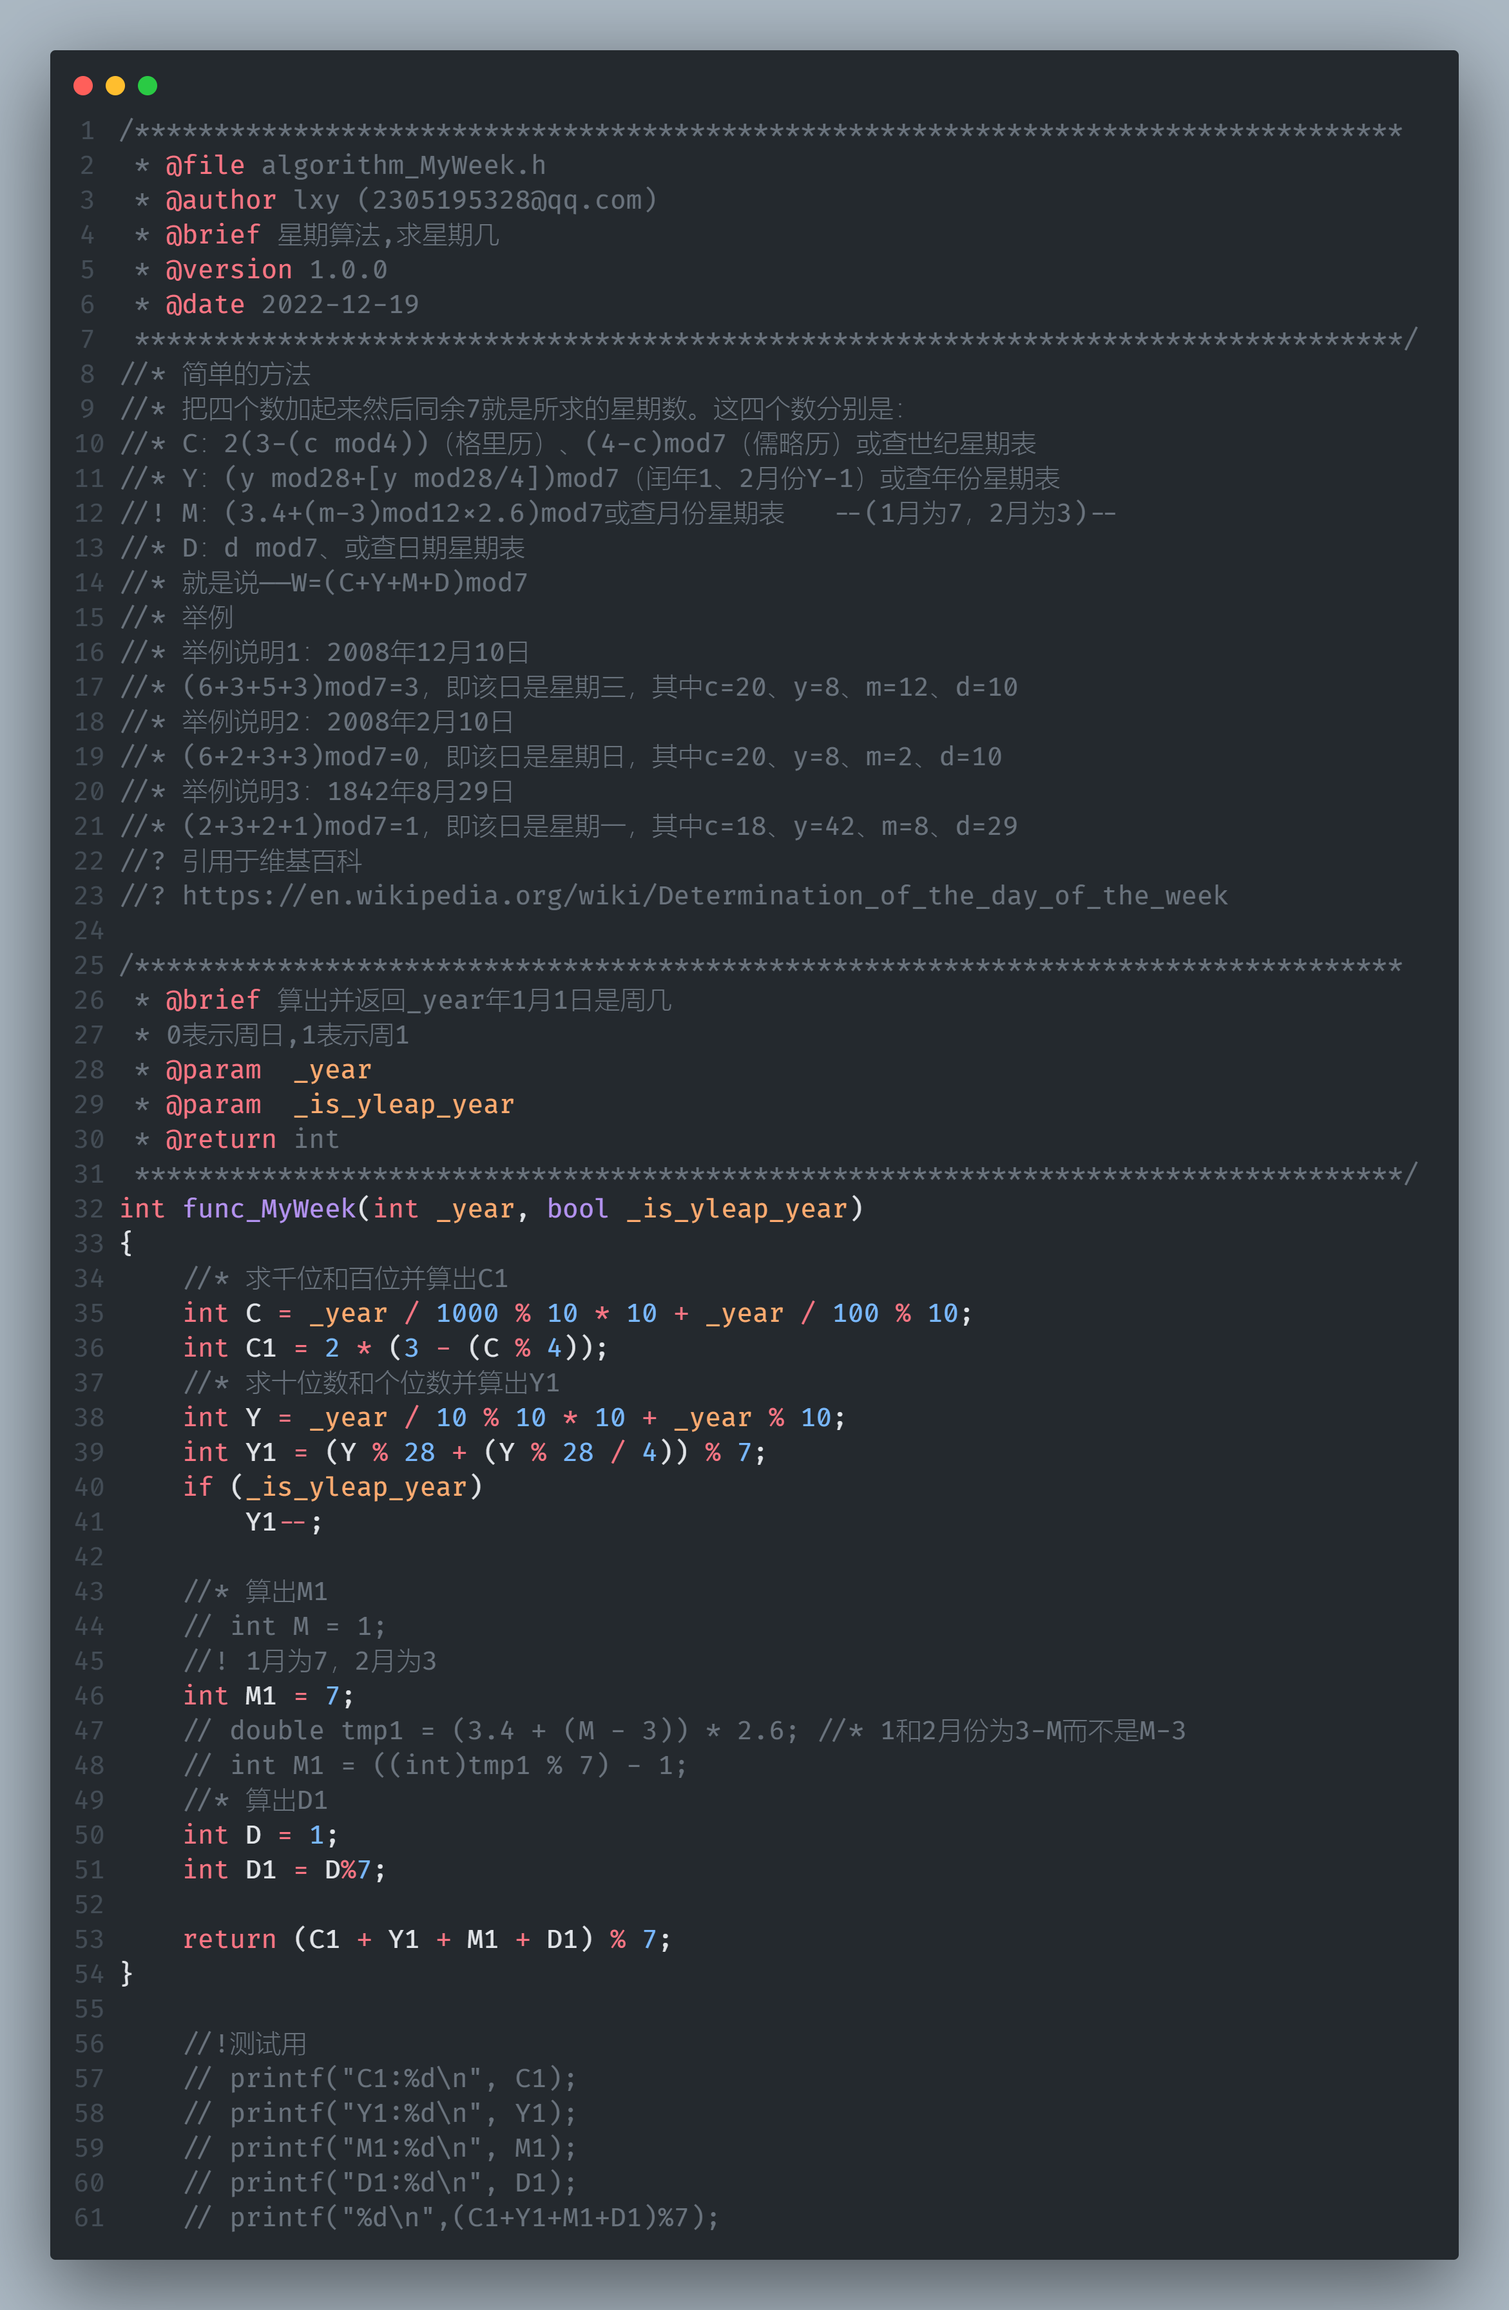
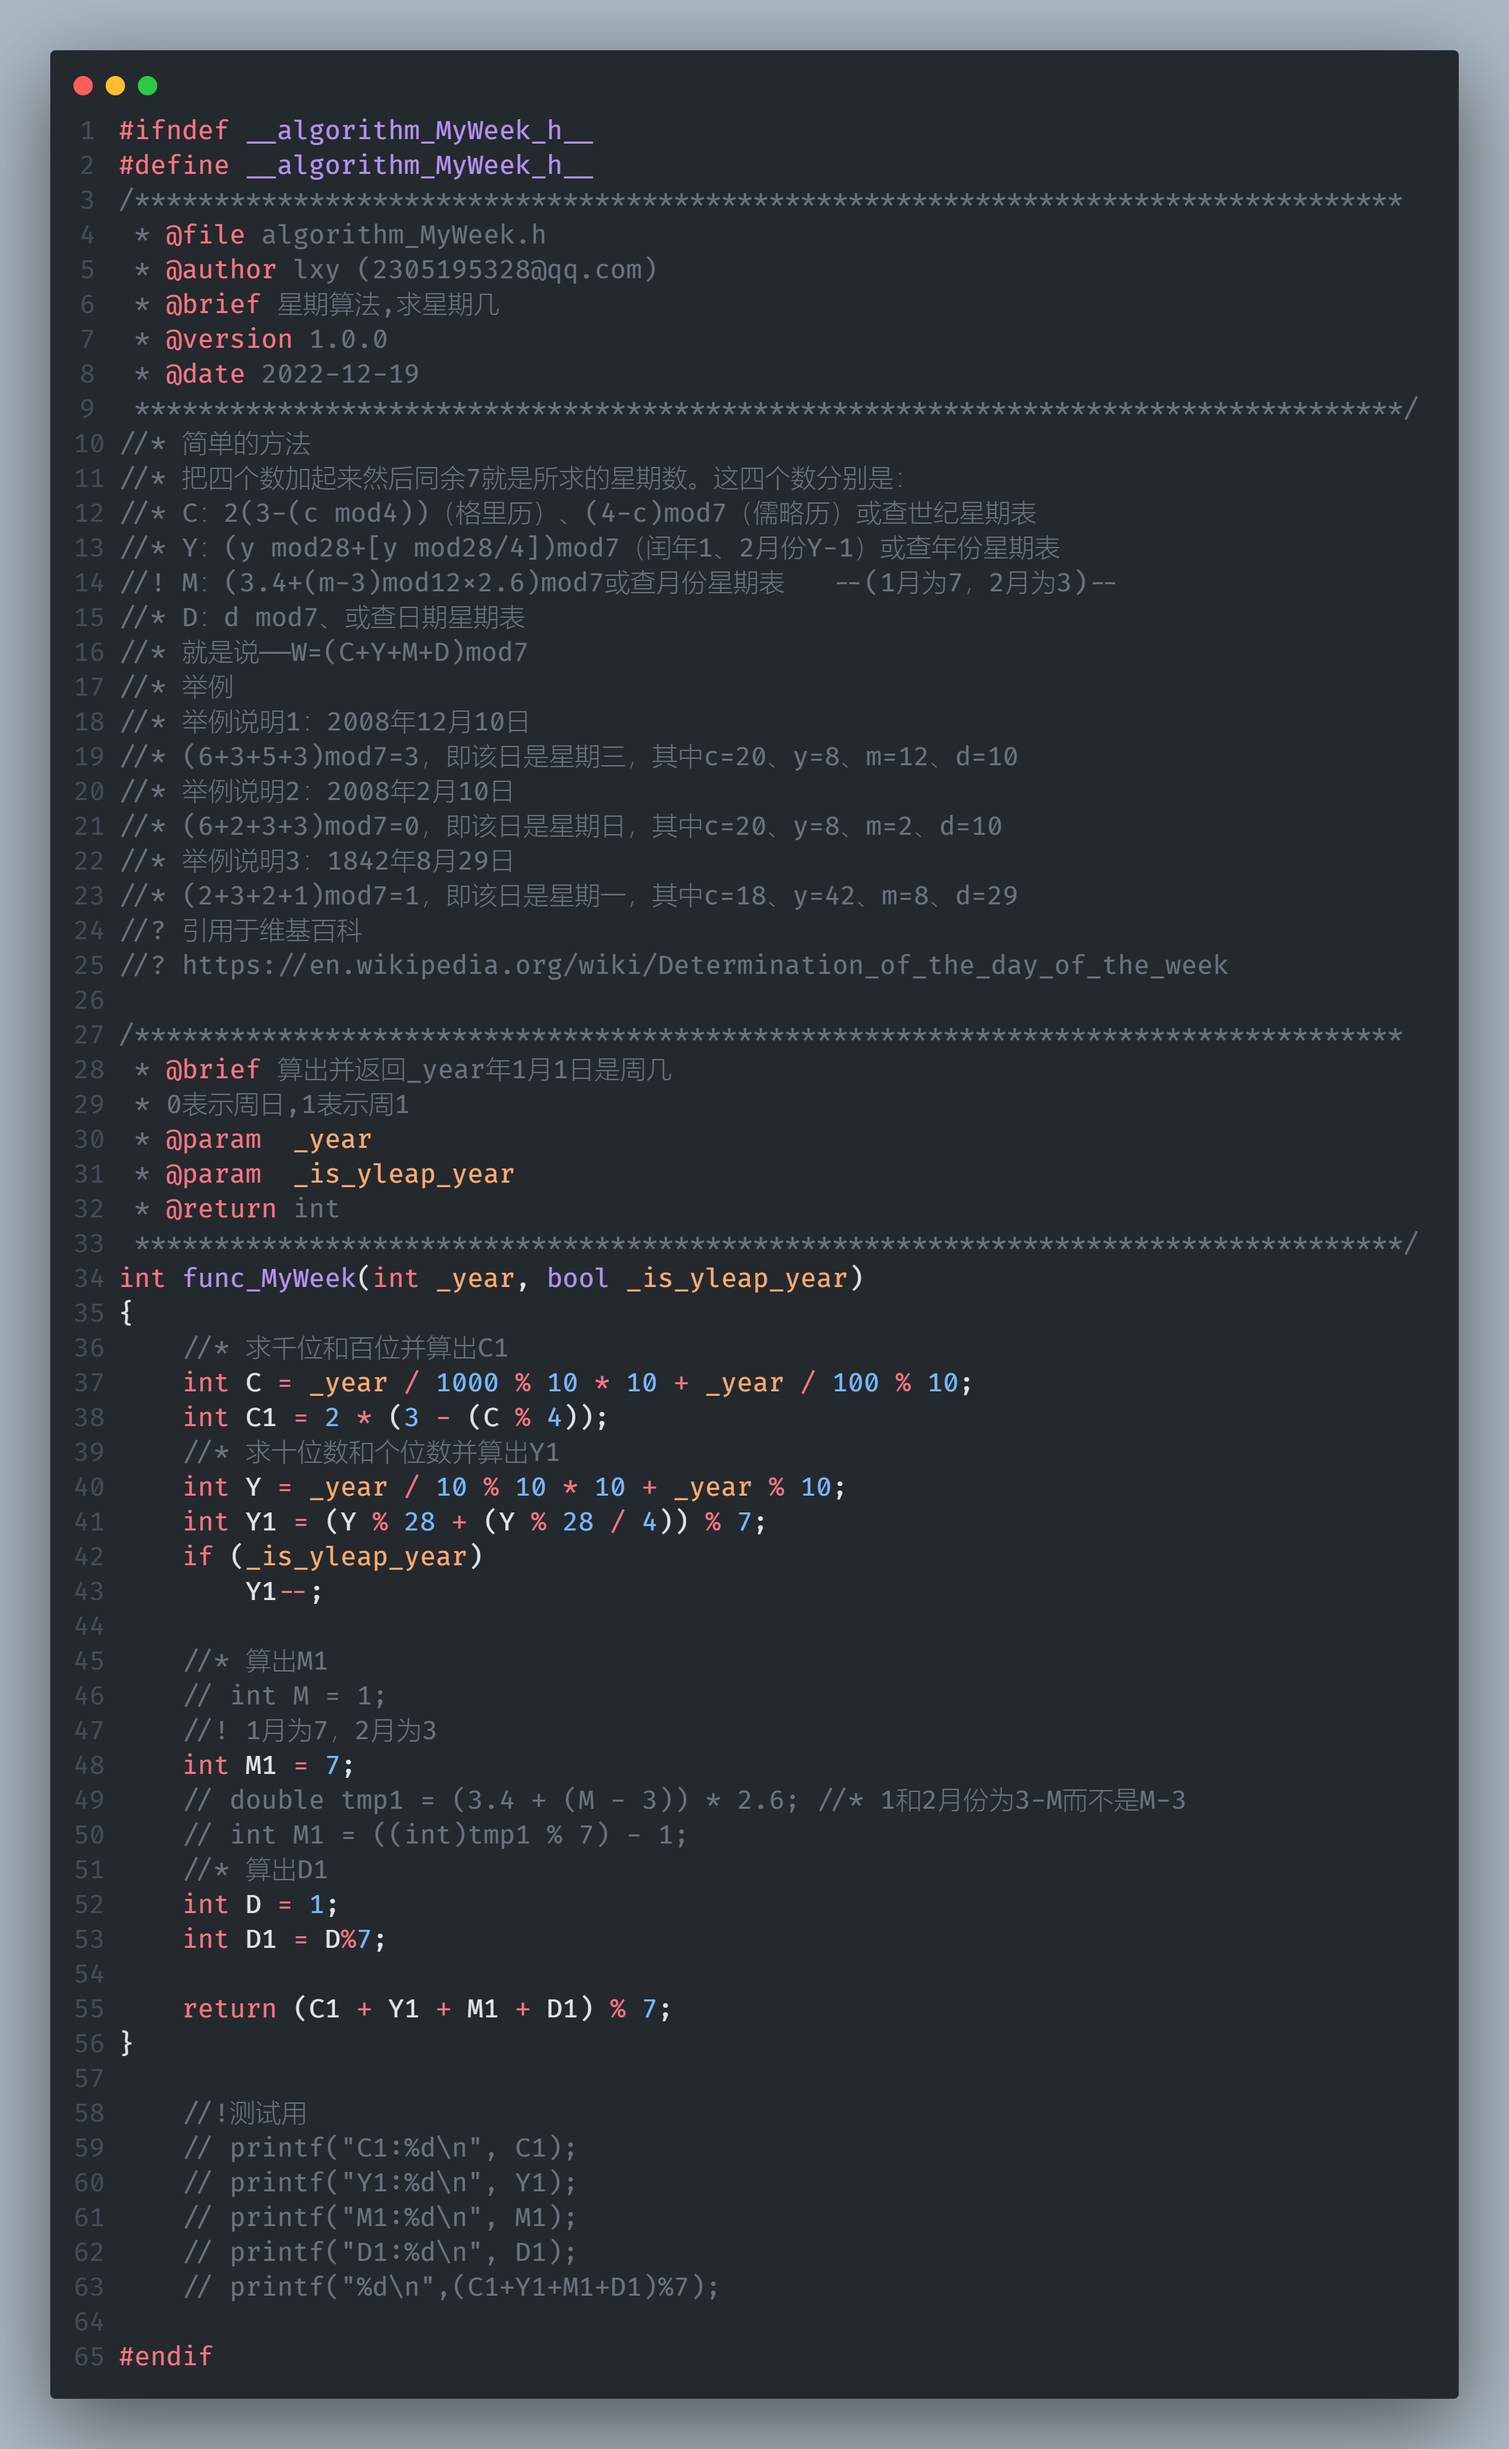
modified:   README.md 	modified:   img/code-algorithm_MyWeek.png 	modified:   img/code-show_calendar.png 	modified:   include/algorithm_MyWeek/algorithm_MyWeek.h 	modified:   include/leap_year/leap_year.h 	modified:   include/show_calendar/show_calendar.h 	modified:   output/main.exe

diff --git a/include/leap_year/leap_year.h b/include/leap_year/leap_year.h
@@ -1,3 +1,5 @@
+#ifndef __leap_year_h__
+#define __leap_year_h__
 /********************************************************************************
  * @file leap_year.h
  * @author lxy (2305195328@qq.com)
@@ -5,8 +7,6 @@
  * @version 1.0.0
  * @date 2022-12-19
  ********************************************************************************/
-#ifndef __leap_year_h__
-#define __leap_year_h__
 #include <stdbool.h>
 
 /********************************************************************************

diff --git a/include/algorithm_MyWeek/algorithm_MyWeek.h b/include/algorithm_MyWeek/algorithm_MyWeek.h
@@ -1,3 +1,5 @@
+#ifndef __algorithm_MyWeek_h__
+#define __algorithm_MyWeek_h__
 /********************************************************************************
  * @file algorithm_MyWeek.h
  * @author lxy (2305195328@qq.com)
@@ -59,3 +61,5 @@ int func_MyWeek(int _year, bool _is_yleap_year)
     // printf("M1:%d\n", M1);
     // printf("D1:%d\n", D1);
     // printf("%d\n",(C1+Y1+M1+D1)%7);
+
+#endif

diff --git a/include/show_calendar/show_calendar.h b/include/show_calendar/show_calendar.h
@@ -1,3 +1,5 @@
+#ifndef __show_calendar_h__
+#define __show_calendar_h__
 /********************************************************************************
  * @file show_calendar.h
  * @author lxy (2305195328@qq.com)
@@ -53,3 +55,5 @@ void show_calendar(int _month, bool _is_yleap_year, int _year_1_1)
     show_calendar(_month+1,_is_yleap_year,(days[_month]+_year_1_1)%7);
     
 }
+
+#endif

diff --git a/README.md b/README.md
@@ -1,6 +1,6 @@
 # perpetual-calendar-c
 
-[远程创建项目地址](https://github.com/SNDRI-2022/perpetual-calendar-c)
+[本项目地址](https://github.com/SNDRI-2022/perpetual-calendar-c)
 
 ## 项目说明
 
@@ -75,8 +75,9 @@ gcc -std=c99 -g .\src\main.c -I .\include -o .\output\main.exe; .\output\main.ex
 
 ### main.c主文件说明
 
+程序的开始
 [main.c文件](./src/main.c)
-![main.c图](https://github.com/SNDRI-2022/perpetual-calendar-c/blob/main/img/code-main.png)
+![main.c图](./img/code-main.png)
 
 #### 接收参数部分
 
@@ -93,5 +94,10 @@ gcc -std=c99 -g .\src\main.c -I .\include -o .\output\main.exe; .\output\main.ex
 
 ### leap_year.h头文件说明
 
+判断是否为闰年
 [leap_year.h文件](./include/leap_year/leap_year.h)
 ![leap_year.h](./img/code-leap_year.png)
+
+#### 设计思路
+
+整形变量`_year`接收一个整形参数，能被400整除是闰年返回ture，反之进行二次判断，能被4整除但不能被100整除是闰年返回ture，反之不是闰年返回false
